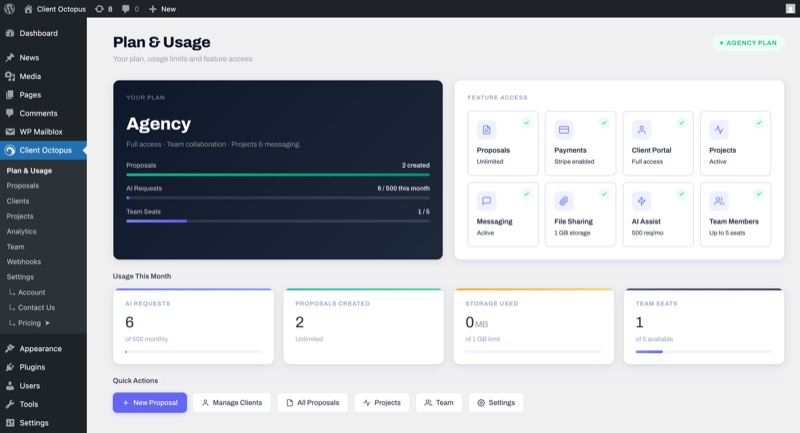
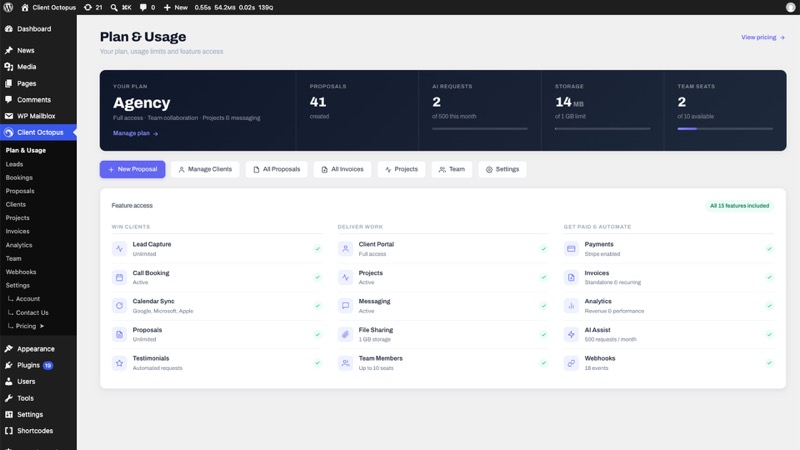
Version 1.4.1

diff --git a/page-templates/docs.php b/page-templates/docs.php
@@ -191,6 +191,7 @@ get_header();
 
 				<h3>Editing proposal content</h3>
 				<p>After creating a proposal, the proposal detail screen shows a summary of the settings (client, pricing, payment options). To write or edit the actual proposal content — sections, text, and line items — click the <strong>Edit Content</strong> button. This opens the full proposal editor where you can build out your proposal before sending it to the client. Content blocks, including the Pricing block, can be reordered — the client-facing proposal renders each block wherever you place it, rather than always pushing pricing to the end.</p>
+				<p>Add images anywhere in a proposal by picking one from your Media Library. Choose full, wide, or half width, and add a description for clients using a screen reader — images appear both in the client's copy and when they print or save the proposal as a PDF.</p>
 
 				<h3>Package Selector pricing</h3>
 				<p>Every proposal uses one of two pricing modes. <strong>Flat Pricing</strong> is a single set of line items totalling one price, same as before. <strong>Package Selector</strong> lets you define unlimited pricing tiers — each with its own independent line items — plus optional add-ons the client can toggle on top of whichever tier they pick. The client-facing proposal recalculates the total live as they choose, and their selection is locked in the moment they accept. Available on <strong>every plan</strong>.</p>
@@ -202,7 +203,7 @@ get_header();
 				<p>A proposal can also be set to <strong>Payment Plan</strong> billing — a fixed number of equal instalments on a schedule (e.g. 3 monthly payments), instead of a single payment, a deposit, or open-ended recurring billing. Choose Payment Plan as the billing type when creating the proposal, then set how many instalments and how often. The client sees the full payment schedule before accepting. Once accepted, each instalment is invoiced and emailed automatically as it comes due, and — on Pro/Agency — can be auto-charged to the client's saved card the same way a recurring profile can. Unlike Recurring billing, a Payment Plan has a fixed end point: once the set number of instalments is paid, billing stops on its own. Available on <strong>every plan</strong>.</p>
 
 				<h3>E-signature</h3>
-				<p>When a client accepts a proposal, they're prompted to type their full legal name and confirm a checkbox in a signing modal. The typed name and acceptance timestamp are recorded on the proposal and visible in the admin.</p>
+				<p>When a client accepts a proposal, they're prompted to type their full legal name and confirm a checkbox in a signing modal. The typed name, acceptance timestamp, and the device they signed from are recorded on the proposal and visible in the admin. The certificate also stores a fingerprint of the proposal exactly as it stood at the moment of signing — if the proposal is edited afterwards, the certificate reports that it has changed since signing rather than silently appearing to cover the new version.</p>
 
 				<h3>Templates</h3>
 				<p>The template library provides preset proposal layouts. Start from a template and customise content, line items, and pricing per client. Most templates are filtered by your current plan, but the Marketing Campaign template is available on every plan.</p>
@@ -225,6 +226,9 @@ get_header();
 
 				<h3>Creating and sending an invoice</h3>
 				<p>Go to <strong>Client Octopus &rarr; Invoices &rarr; New Invoice</strong>. Assign a client, add line items, and optionally apply a discount and VAT. Each invoice is auto-numbered (<code>INV-0001</code>, <code>INV-0002</code>, &hellip;). Click <strong>Send</strong> to email the client a link to their invoice — no WordPress account required to view it.</p>
+
+				<h3>VAT registration number</h3>
+				<p>If you're VAT registered, set your <strong>VAT Registration Number</strong> once in Settings and it's filled in automatically on every new invoice, including ones generated from an accepted proposal — no retyping it by hand each time. Leave it blank if you're not VAT registered.</p>
 
 				<h3>Statuses</h3>
 				<p>Invoices move through <strong>Draft &rarr; Sent &rarr; Paid</strong>, with <strong>Overdue</strong> applied automatically once the due date passes and <strong>Cancelled</strong> available at any point before payment.</p>
@@ -367,7 +371,7 @@ get_header();
 				<p>On any proposal, enable payment and set a <strong>deposit percentage</strong> (1–100%). The client pays the deposit when they accept. You can mark the balance as due on project completion, which triggers a second checkout session with your active payment provider.</p>
 
 				<h3>Currencies</h3>
-				<p>GBP is the default. Any currency supported by your active payment provider can be used — set the currency on each proposal individually.</p>
+				<p>Client Octopus supports 20 currencies, including GBP, USD, EUR, CAD, AUD, JPY, CHF, NZD, SEK, NOK, DKK, SGD, HKD, INR, PLN, CZK, BRL, MXN, ZAR, and KRW. Set a <strong>Default Currency</strong> in Settings (or during first-time setup) so new proposals and invoices open in the currency you actually bill in, or set the currency on each proposal individually. Existing records keep whichever currency they were created with if you change your default later.</p>
 
 				<h3>Refunds</h3>
 				<p>Refunds can be initiated from <strong>Client Octopus &rarr; Proposals</strong> on any completed payment made via Stripe — no manual action in the Stripe dashboard is needed. Refunds for PayPal payments currently need to be issued directly from your PayPal account.</p>
@@ -478,6 +482,9 @@ get_header();
 					<li><code>lead.captured</code></li>
 				</ul>
 
+				<h3>Delivery and retries</h3>
+				<p>Deliveries are queued and sent in the background rather than inline, so triggering an event (like a proposal being accepted) never waits on your endpoint responding. If a delivery fails — your endpoint is down, times out, or returns an error — Client Octopus retries automatically rather than losing the event. A webhook that keeps failing is paused, with the full response from the last attempt recorded so you can diagnose what went wrong.</p>
+
 				<h3>Verifying payloads</h3>
 				<p>Every request includes an <code>X-ClientOctopus-Signature</code> header containing an HMAC-SHA256 signature of the raw request body, signed with your webhook secret. Verify this on your endpoint before processing the payload. The last 3 delivery attempts for each webhook are logged and visible in the admin.</p>
 
@@ -523,11 +530,18 @@ $data = json_decode( $payload, true );
 							<td>Expiring soon</td>
 							<td>A proposal's expiry date is approaching and it's still awaiting a response</td>
 						</tr>
+						<tr>
+							<td>Invoice overdue</td>
+							<td>An invoice has passed its due date and hasn't been marked paid</td>
+						</tr>
 					</tbody>
 				</table>
 
 				<h3>Configuring delays</h3>
 				<p>Each trigger has its own configurable delay, in days, under <strong>Client Octopus &rarr; Settings &rarr; Automations</strong>. Reminders are checked once daily via WordPress cron, so a change to the delay takes effect on the next daily run.</p>
+
+				<h3>Client unsubscribe</h3>
+				<p>Every reminder email carries an unsubscribe link and a preferences page where the client can switch proposal reminders, invoice reminders, call reminders, and testimonial requests on or off individually. Essential emails — proposals, invoices, payment receipts, booking confirmations, portal login links, and approval requests — are never affected, since they concern work already agreed. A client's current preferences, and a link to copy them, are shown on their Client Detail page.</p>
 			</section>
 
 			<!-- ─── ANALYTICS ──────────────────────────────────────────────── -->
@@ -679,6 +693,9 @@ $data = json_decode( $payload, true );
 
 				<h3>Testimonial Emails (Pro / Agency)</h3>
 				<p>Enable automated review-request emails sent to clients after their final payment is collected. Configure the email body, the URL you want them to visit (e.g. a Google Reviews or Trustpilot page), and the button label (default: &ldquo;Leave a Review&rdquo;).</p>
+
+				<h3>Translations</h3>
+				<p>Emails, the Settings and Plan &amp; Usage screens, and the public booking and lead capture forms can be translated using a standard WordPress translation plugin (e.g. Loco Translate) with the included translation template. The React-based admin screens, the client portal, and the client-facing proposal view aren't covered yet.</p>
 
 				<h3>Danger Zone</h3>
 				<p>By default, uninstalling Client Octopus only removes the plugin's code — your proposals, clients, projects, and invoices stay in your database and are there again if you reinstall or upgrade. To permanently delete all Client Octopus data when the plugin is deleted, enable <strong>Delete all Client Octopus data when this plugin is deleted</strong> under Danger Zone. This is off by default and should only be enabled if you intend to remove Client Octopus and its data for good.</p>
@@ -901,6 +918,7 @@ $data = json_decode( $payload, true );
 
 				<h3>GDPR considerations</h3>
 				<p>Because all client data lives in your database, you are the data controller. You are responsible for your own privacy policy, cookie notice, and any data subject requests from your clients. Client Octopus does not act as a data processor on your behalf beyond the AI relay described above.</p>
+				<p>Client Octopus integrates with WordPress's own <strong>Tools &rarr; Export/Erase Personal Data</strong> tools, so you don't have to track down a client's records by hand when a request comes in. An export or erasure request covers client records, leads, booked calls, the name and IP address recorded when a proposal was signed, project messages, approval comments, and unsubscribe preferences. Erasure deletes booked calls, project messages, and approval comments outright; invoices, payments, and accepted proposals are kept but stripped of personal details (including anonymising the signing IP), since accounting records have to be retained for tax purposes — the confirmation shown at the end of an erasure states exactly what was kept and why.</p>
 			</section>
 
 

diff --git a/page-templates/changelog.php b/page-templates/changelog.php
@@ -28,6 +28,68 @@ get_header();
 		<div class="container small-text-container">
 			<div class="changelog-entry animated-up">
 				<div class="changelog-entry__header">
+					<h2 class="changelog-entry__version">1.4.1</h2>
+					<span class="changelog-entry__date">October 2026</span>
+					<span class="badge badge--release">Update</span>
+				</div>
+				<div class="stack changelog-entry__body">
+					<h3>New</h3>
+					<ul>
+						<li>Emails, the settings and plan screens, and the public booking and lead capture forms are now translatable, with a translation template included for translators. The React-based admin screens, the client portal, and the proposal view are not covered yet</li>
+						<li>Set a Default Currency in Settings, and during first-time setup. New proposals and invoices open in your currency instead of always defaulting to British Pounds. Existing records keep the currency they were created with</li>
+						<li>15 more currencies, bringing the total to 20 — Japanese Yen, Swiss Franc, New Zealand Dollar, Swedish Krona, Norwegian Krone, Danish Krone, Singapore Dollar, Hong Kong Dollar, Indian Rupee, Polish Zloty, Czech Koruna, Brazilian Real, Mexican Peso, South African Rand, and South Korean Won — all working everywhere the original five did, including Analytics currency conversion</li>
+						<li>Choose Stripe or PayPal during first-time setup and enter your details there, instead of finishing PayPal setup afterwards in Settings</li>
+						<li>Pick your logo from the WordPress Media Library, in Settings and during setup, instead of pasting in a direct image URL</li>
+						<li>VAT Registration Number in Settings — once set, it's filled in automatically on new invoices and on invoices generated from an accepted proposal, instead of being typed in by hand each time</li>
+						<li>Add images to a proposal — pick from your Media Library, choose full, wide, or half width, and add a description for clients using a screen reader. Images appear in the client's copy and when printed</li>
+						<li>Change a team member's role from the Team screen, applying immediately instead of requiring removal and re-invitation (Agency)</li>
+						<li>The signing certificate on an accepted proposal now records the device the client signed from, and a fingerprint of the proposal exactly as it stood when they accepted it — if the proposal is edited afterwards, the certificate reports that it has changed since signing</li>
+						<li>Clients can now unsubscribe from reminder emails — proposal reminders, invoice reminders, call reminders, and testimonial requests each carry an unsubscribe link and a preferences page. Essential emails (proposals, invoices, receipts, booking confirmations, portal logins, approval requests) are never affected</li>
+						<li>Each client's detail screen now shows which reminder emails they still receive and which they've unsubscribed from, with a button to copy their preferences link</li>
+					</ul>
+
+					<h3>Improved</h3>
+					<ul>
+						<li>Webhooks are now queued and delivered in the background with automatic retries, so a proposal acceptance no longer waits on them and a temporary outage at the receiving end no longer loses the event permanently. Repeated failures pause the webhook with the full response recorded for diagnosis (Pro &amp; Agency)</li>
+						<li>The plan comparison screen was missing seven features that differ between plans — Call Booking, Calendar Sync, Webhooks, Analytics, Testimonials, Leads, and Invoices — so it understated what the paid plans include</li>
+						<li>Accessibility — popups now keep keyboard focus inside them, close with the Escape key, and return focus to where you were when they close. Form fields across the admin are now properly associated with their labels</li>
+						<li>The Plan &amp; Usage screen has been reorganised — your plan and usage figures sit in a single band at the top, quick actions moved up beneath it, and the feature list is grouped into Win Clients, Deliver Work, and Get Paid &amp; Automate instead of one long grid</li>
+						<li>Emails that can be unsubscribed from now include standard List-Unsubscribe headers, so Gmail and Outlook can offer their own one-click unsubscribe button</li>
+						<li>Privacy requests handled through Tools &rarr; Export/Erase Personal Data now cover far more than before — booked calls, the name and IP address recorded when a proposal is signed, project messages, approval comments, and unsubscribe records, alongside the client records and leads already covered</li>
+						<li>An erasure request now reports honestly about what was kept — booked calls, project messages, and approval comments are deleted outright, while invoices, payments, and accepted proposals are kept but stripped of personal details (including anonymising the signing IP) because accounting records must be retained for tax purposes</li>
+					</ul>
+
+					<h3>Fixes</h3>
+					<ul>
+						<li>Currencies written without decimal places, such as Japanese Yen and South Korean Won, are no longer shown with a meaningless ".00" on the end</li>
+						<li>Online payments in Japanese Yen or South Korean Won were sent to Stripe at 100 times the correct amount, and rejected by PayPal, because the code assumed every currency has a sub-unit like pence. Affected proposals, invoices, recurring billing, and payment plans</li>
+						<li>Payment confirmation emails showed the currency code and two decimal places regardless of currency, so a yen payment read "JPY 17,088.00" instead of "&yen;17,088"</li>
+						<li>A recurring invoice set to auto-charge tried to charge the first invoice before the client had a chance to pay one and save a card, incorrectly telling them their card was declined. Auto-charge now starts from the second invoice (Pro &amp; Agency)</li>
+						<li>The currency dropdowns listed Canadian and Australian Dollars with a plain "$", making them impossible to tell apart from US Dollars</li>
+						<li>Booking cancellation links in emails could be triggered by corporate mail scanners and link previewers, silently cancelling a confirmed booking nobody actually cancelled. Cancelling now requires a deliberate confirmation step (Pro &amp; Agency)</li>
+						<li>Team members with the Viewer role could perform destructive actions — bulk-deleting leads, cancelling booked calls, editing blocked time, changing automated email content — that now correctly require Editor or Admin</li>
+						<li>Team members with the app's Admin role could create brand-new WordPress user accounts and email a password-reset link to any address. Creating a new WordPress account now requires a site administrator</li>
+						<li>Downgrading from Agency to Pro left Messaging, File Sharing, and Approvals usable on existing projects — these are now correctly restricted, with existing conversations and files still readable but not addable to</li>
+						<li>Ticking "Delete all Client Octopus data when this plugin is deleted" left six database tables behind, including active portal session tokens, encrypted calendar credentials, and client-uploaded files. Uninstalling now removes all of it</li>
+						<li>Public proposal and invoice links now use a cryptographically secure random token instead of a predictable one. Links already issued remain valid</li>
+						<li>The payment status check did not verify its token, so payment amount, currency, and status could be read without it</li>
+						<li>Currency symbols didn't match between the admin and the client's emailed invoice copy — now consistent everywhere</li>
+						<li>The project completion email always showed the outstanding balance in pounds regardless of the proposal's actual currency</li>
+						<li>The button on the project completion email read "View Project" but opened the final invoice — it now reads "Pay Final Invoice" or "View in Portal" depending on whether a balance remains</li>
+						<li>The client email preferences page offered to switch off reminders your plan can't send in the first place — only categories your plan actually sends are now listed</li>
+						<li>When a client's portal session expired, the portal showed raw error text instead of returning them to the login screen</li>
+						<li>Database updates could run too late after an automatic plugin update, including when updated via WordPress auto-update or a manual file upload rather than activation</li>
+						<li>Team members always saw "0" on the unread messages badge regardless of actual unread count (Agency)</li>
+						<li>AI usage records stored no token counts and no cost, leaving AI usage reporting blank (Pro &amp; Agency)</li>
+						<li>Free-plan users opening Bookings or Analytics saw an error message with no way forward — both now explain the feature and link to upgrade</li>
+						<li>The Unsubscribe link in reminder emails acted as soon as it was followed, so mail scanners could unsubscribe a client who never clicked it. It now opens a preferences page instead</li>
+						<li>The booking confirmation and reminder emails didn't state which timezone the time was in, which could read as a different time than the one the visitor actually booked</li>
+					</ul>
+				</div>
+			</div>
+
+			<div class="changelog-entry animated-up">
+				<div class="changelog-entry__header">
 					<h2 class="changelog-entry__version">1.4.0</h2>
 					<span class="changelog-entry__date">September 2026</span>
 					<span class="badge badge--release">Update</span>

diff --git a/page-templates/terms-privacy.php b/page-templates/terms-privacy.php
@@ -49,7 +49,7 @@ get_header();
 
 				<p><strong>Apple iCloud (CalDAV).</strong> If you connect Apple iCloud as a calendar provider, Client Octopus connects directly from your WordPress site to Apple's iCloud calendar servers using the Apple ID and app-specific password you provide — this connection does not go through the Client Octopus relay. Your app-specific password is encrypted before being stored in your WordPress database. This only happens if you've explicitly connected an Apple iCloud account in Settings. See Apple's <a href="https://www.apple.com/legal/internet-services/icloud/" target="_blank" rel="noopener">iCloud Terms of Service</a> and <a href="https://www.apple.com/legal/privacy/" target="_blank" rel="noopener">Privacy Policy</a>.</p>
 
-				<p><strong>Frankfurter (exchange rates).</strong> If you're on a Pro or Agency plan and have set a Reporting Currency in Settings that's different from GBP, Client Octopus fetches daily exchange rates from <a href="https://www.frankfurter.dev/" target="_blank" rel="noopener">Frankfurter</a>, a free, keyless exchange-rate API backed by European Central Bank reference rates, to convert proposal, invoice, and payment figures for display in Analytics. This only starts once you've actually chosen a non-GBP Reporting Currency — it never runs on its own. No personal data, licence key, or site information is ever sent — only a request for the current rates between GBP and USD/EUR/CAD/AUD. Rates are cached locally for up to 24 hours. This never affects Client Detail, which always shows each client's real billed currency unconverted.</p>
+				<p><strong>Frankfurter (exchange rates).</strong> If you're on a Pro or Agency plan and have set a Reporting Currency in Settings that's different from GBP, Client Octopus fetches daily exchange rates from <a href="https://www.frankfurter.dev/" target="_blank" rel="noopener">Frankfurter</a>, a free, keyless exchange-rate API backed by European Central Bank reference rates, to convert proposal, invoice, and payment figures for display in Analytics. This only starts once you've actually chosen a non-GBP Reporting Currency — it never runs on its own. No personal data, licence key, or site information is ever sent — only a request for the current rates between your Reporting Currency and whichever of the 20 supported currencies (GBP, USD, EUR, CAD, AUD, JPY, CHF, NZD, SEK, NOK, DKK, SGD, HKD, INR, PLN, CZK, BRL, MXN, ZAR, and KRW) your proposals, invoices, and payments are actually recorded in. Rates are cached locally for up to 24 hours. This never affects Client Detail, which always shows each client's real billed currency unconverted.</p>
 
 				<p><strong>Cloudflare Turnstile.</strong> If you enable Turnstile as the CAPTCHA provider for the lead capture form, Client Octopus verifies each form submission with Cloudflare before saving it, to block automated spam. This only runs when Turnstile is configured in Settings — it is off by default. See Cloudflare's <a href="https://www.cloudflare.com/website-terms/" target="_blank" rel="noopener">Terms of Service</a> and <a href="https://www.cloudflare.com/privacypolicy/" target="_blank" rel="noopener">Privacy Policy</a>.</p>
 

diff --git a/page-templates/whats-next.php b/page-templates/whats-next.php
@@ -50,7 +50,6 @@ get_header();
 					<p class="section-lede">Upcoming improvements focused on helping you close more deals, increase project value, and give clients more flexible ways to move forward.</p>
 					<div>
 						<ul class="card-list">
-							<li>Payment plans & instalments</li>
 							<li>Accept now, pay later workflows</li>
 							<li>Optional proposal upsells</li>
 							<li>Discount & promo codes</li>
@@ -63,10 +62,9 @@ get_header();
 					<p class="section-lede">New tools designed to help agencies standardise processes, reduce repetitive work, and manage larger volumes of client projects more efficiently.</p>
 					<div>
 						<ul class="card-list">
-							<li>Reusable custom proposal templates</li>
-							<li>AI-generated proposal drafts</li>
+							<li>Save your own proposals as reusable templates</li>
 							<li>Time tracking & profitability insights</li>
-							<li>Team collaboration improvements</li>
+							<li>Support ticket system in the client portal</li>
 						</ul>
 					</div>
 				</div>
@@ -76,10 +74,9 @@ get_header();
 					<p class="section-lede">Expand your workflow with integrations and automations that keep your proposals, payments, projects, and notifications connected across the tools you already use.</p>
 					<div>
 						<ul class="card-list">
-							<li>Xero & QuickBooks syncing</li>
-							<li>Slack notifications</li>
-							<li>Calendly & Cal.com integrations</li>
-							<li>Expanded webhook events</li>
+							<li>Native Xero & QuickBooks sync</li>
+							<li>Built-in Slack app (no Zapier required)</li>
+							<li>More outbound webhook events</li>
 						</ul>
 					</div>
 				</div>

diff --git a/page-templates/home.php b/page-templates/home.php
@@ -44,7 +44,7 @@ get_header();
 					<span class="browser-frame__url">clientoctopus.com/wp-admin/admin.php?page=clientoctopus</span>
 				</div> -->
 				<div class="browser-frame__content">
-					<img src="/static/images/screenshots/admin-plan-usage.jpg?v=1" srcset="/static/images/screenshots/admin-plan-usage-800.jpg 800w, /static/images/screenshots/admin-plan-usage.jpg 1920w" sizes="(max-width: 768px) 100vw, 900px" alt="Wordpress plugin Client Octopus admin dashboard" width="1920" height="1180" fetchpriority="high" />
+					<img src="/static/images/screenshots/admin-plan-usage.jpg?v=3" srcset="/static/images/screenshots/admin-plan-usage-800.jpg 800w, /static/images/screenshots/admin-plan-usage.jpg 1920w" sizes="(max-width: 768px) 100vw, 900px" alt="Wordpress plugin Client Octopus admin dashboard" width="1920" height="1080" fetchpriority="high" />
 				</div>
 			</div>
 		</div>

diff --git a/template-parts/header.php b/template-parts/header.php
@@ -69,7 +69,7 @@ global $meta;
 	<link rel="stylesheet" href="https://fonts.googleapis.com/css2?family=Archivo+Black&family=Inter:ital,opsz,wght@0,14..32,100..900;1,14..32,100..900&family=Playfair+Display:ital,wght@0,400..900;1,400..900&display=swap">
 	<?php if ($meta->slug === 'home') : ?>
 		<link rel="preload" as="image"
-		      href="/static/images/screenshots/admin-plan-usage.jpg?v=1"
+		      href="/static/images/screenshots/admin-plan-usage.jpg?v=3"
 		      imagesrcset="/static/images/screenshots/admin-plan-usage-800.jpg 800w, /static/images/screenshots/admin-plan-usage.jpg 1920w"
 		      imagesizes="(max-width: 768px) 100vw, 900px"
 		      fetchpriority="high">
